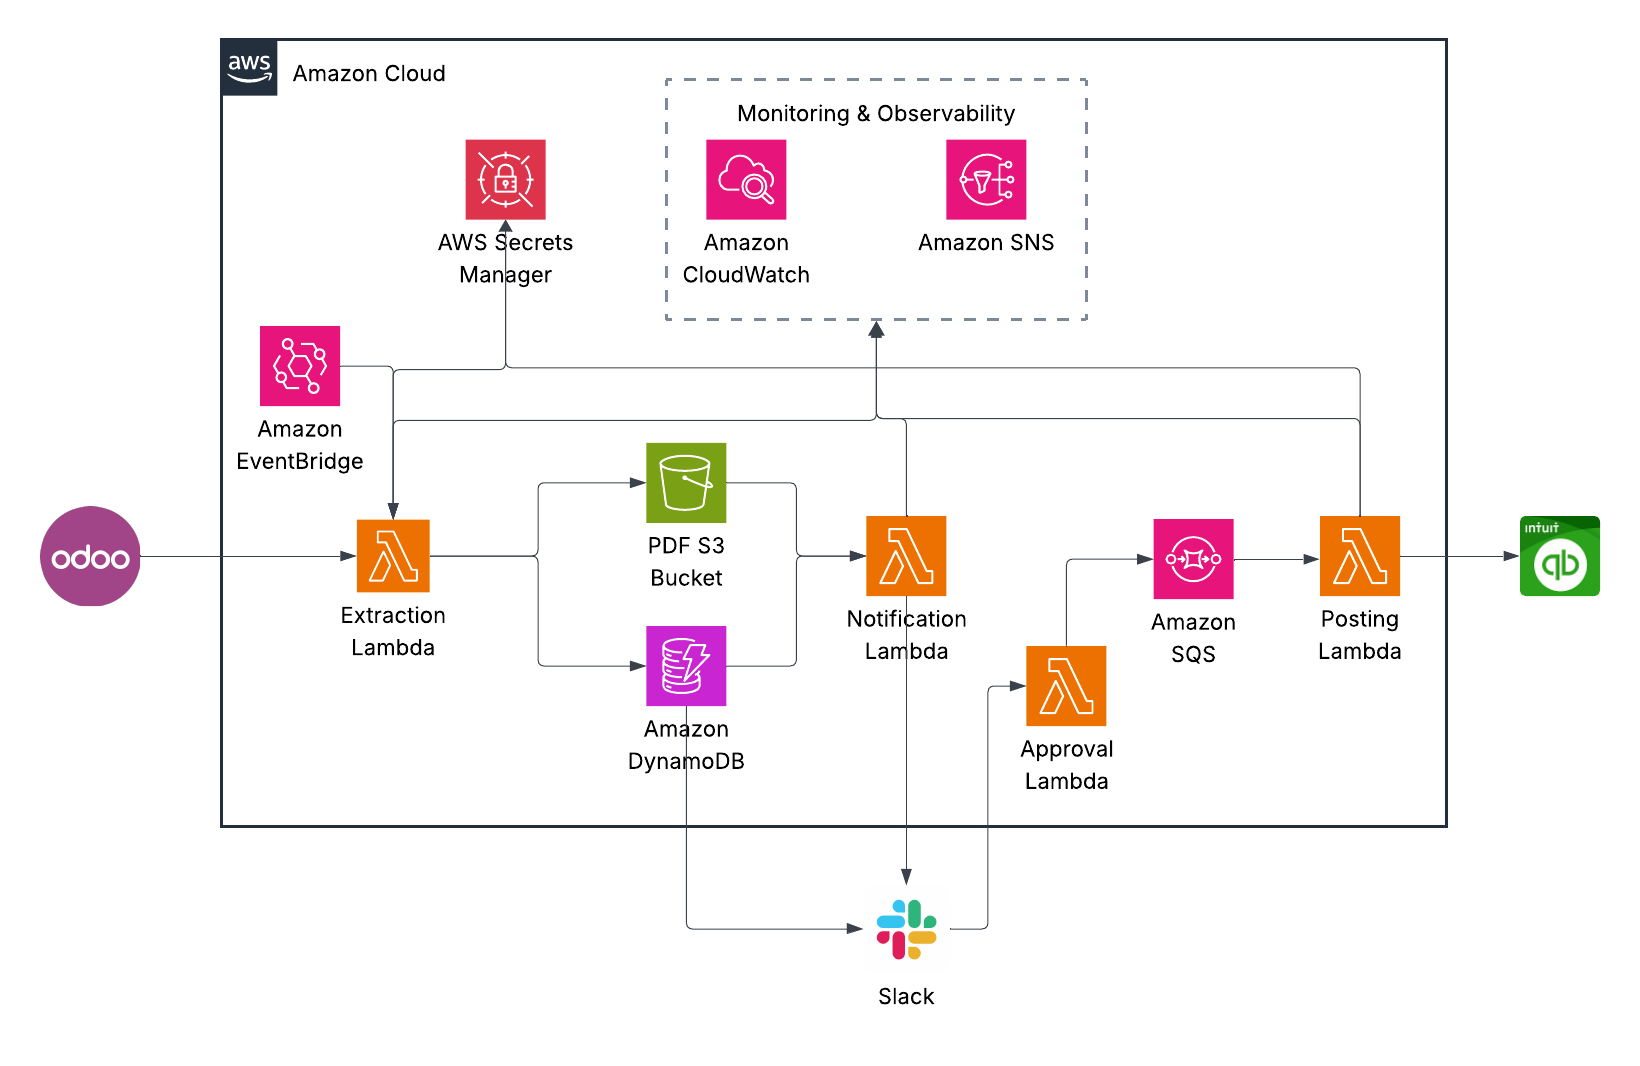
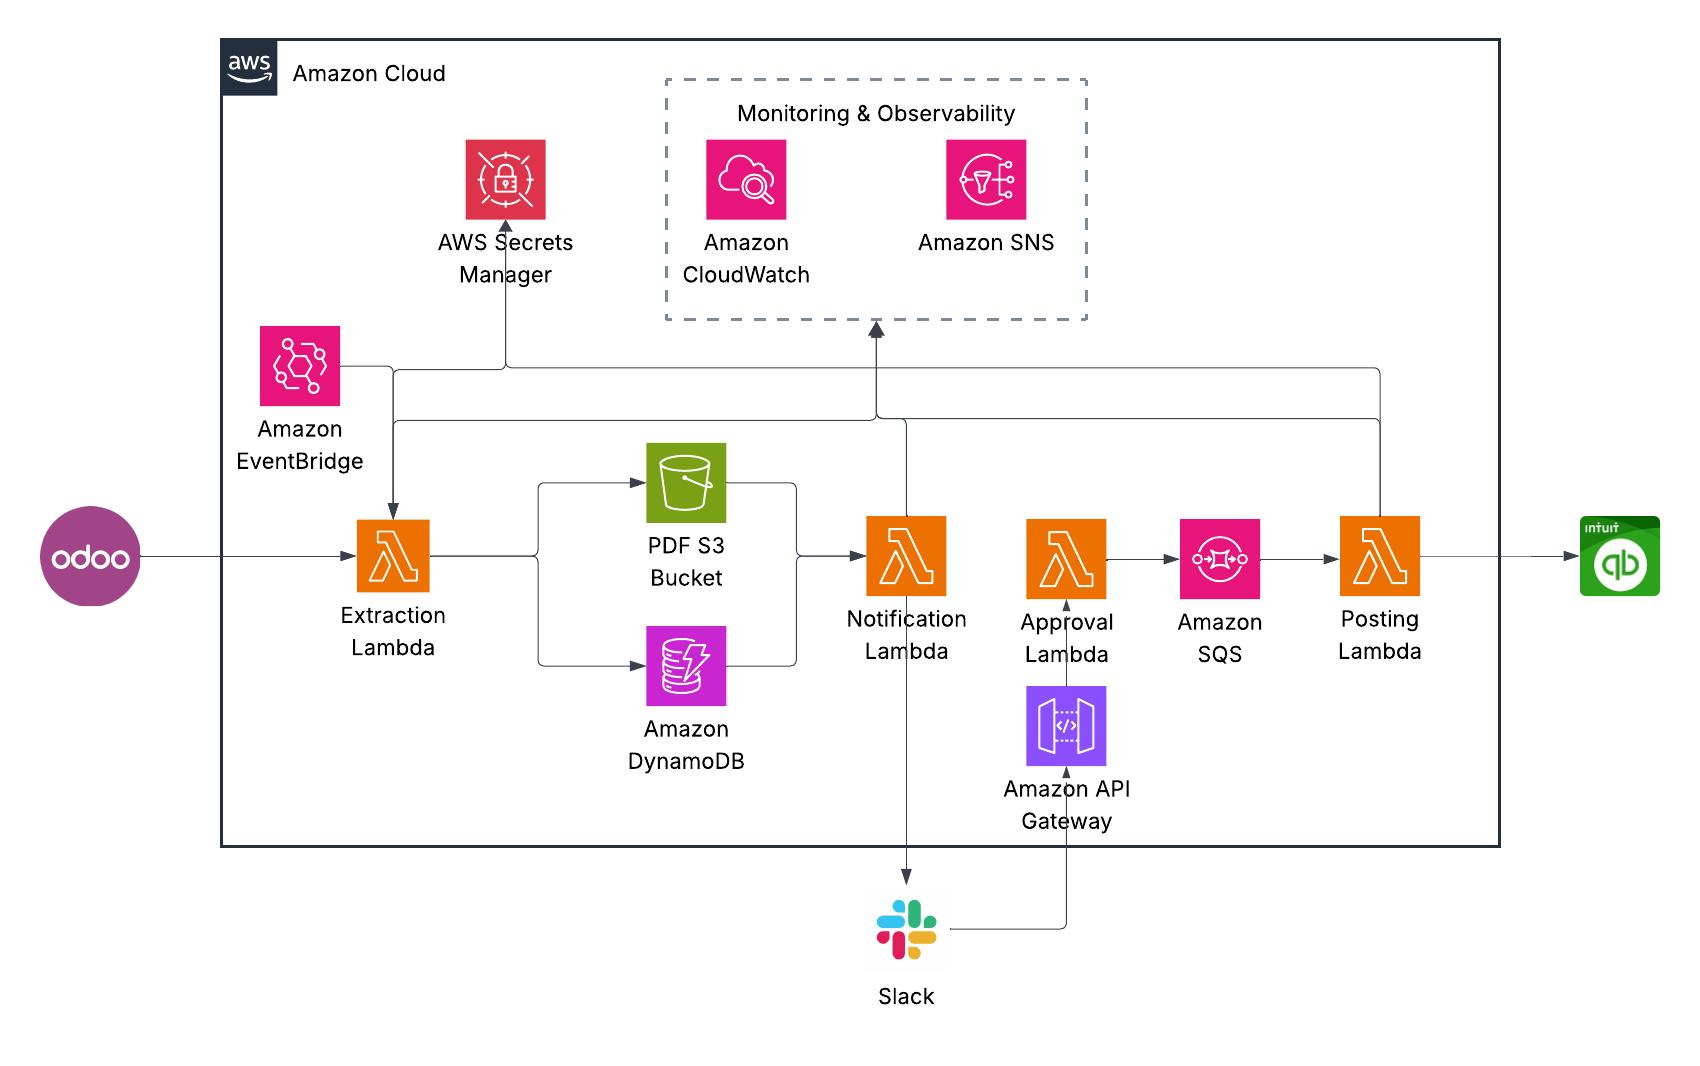
Refactor QuickBooks credentials management in Terraform and update approval handler to use API Gateway. Consolidated QuickBooks realm IDs and refresh tokens into a single variable for better organization. Updated README and example variables to reflect changes. Enhanced Lambda function to handle API

diff --git a/lambda/approval_handler.py b/lambda/approval_handler.py
@@ -1,7 +1,7 @@
 """
 Lambda 4: Approval Handler
 
-Lambda Function URL that handles Slack interactive button clicks.
+Lambda Function URL / API Gateway that handles Slack interactive button clicks.
 Updates DynamoDB status and enqueues approved invoices to SQS.
 """
 
@@ -11,6 +11,7 @@ import hmac
 import hashlib
 import logging
 import time
+import base64
 from datetime import datetime
 from urllib.parse import parse_qs
 
@@ -67,27 +68,33 @@ def get_slack_config() -> dict:
         raise
 
 
-def verify_slack_signature(event: dict, signing_secret: str) -> bool:
-    """Verify request is from Slack using signing secret."""
+def verify_slack_signature(headers: dict, body: str, signing_secret: str) -> bool:
+    """
+    Verify request is from Slack using signing secret.
+    
+    IMPORTANT: body must be the decoded string (not base64), as Slack signs the actual payload.
+    """
     
     # Skip verification if no signing secret (dev mode)
     if not signing_secret:
         logger.warning("Slack signing secret not configured - skipping verification")
         return True
     
-    headers = event.get("headers", {})
-    # Lambda Function URL headers are lowercase
+    # Lambda Function URL / API Gateway headers are lowercase
     timestamp = headers.get("x-slack-request-timestamp", "")
     signature = headers.get("x-slack-signature", "")
-    body = event.get("body", "")
     
     if not timestamp or not signature:
-        logger.error("Missing Slack signature headers")
+        logger.error(f"Missing Slack signature headers. Headers present: {list(headers.keys())}")
         return False
     
     # Check timestamp is recent (within 5 minutes)
-    if abs(time.time() - int(timestamp)) > 300:
-        logger.error("Slack timestamp too old")
+    try:
+        if abs(time.time() - int(timestamp)) > 300:
+            logger.error("Slack timestamp too old")
+            return False
+    except ValueError:
+        logger.error(f"Invalid timestamp: {timestamp}")
         return False
     
     # Compute expected signature
@@ -100,6 +107,8 @@ def verify_slack_signature(event: dict, signing_secret: str) -> bool:
     
     if not hmac.compare_digest(expected, signature):
         logger.error("Slack signature mismatch")
+        logger.debug(f"Expected: {expected[:20]}...")
+        logger.debug(f"Received: {signature[:20]}...")
         return False
     
     return True
@@ -418,29 +427,28 @@ def handle_modal_submit(payload: dict) -> dict:
 
 
 def lambda_handler(event, context):
-    """Handle Lambda Function URL requests from Slack."""
+    """Handle API Gateway / Lambda Function URL requests from Slack."""
     
     logger.info(f"Received request: {event.get('requestContext', {}).get('http', {}).get('method')}")
     
     # Get Slack config for verification
     config = get_slack_config()
     
-    # Verify request is from Slack
-    if not verify_slack_signature(event, config.get("signing_secret", "")):
+    # Get body - decode if base64 encoded
+    body = event.get("body", "")
+    if event.get("isBase64Encoded"):
+        body = base64.b64decode(body).decode("utf-8")
+    
+    # Verify request is from Slack (using decoded body)
+    headers = event.get("headers", {})
+    if not verify_slack_signature(headers, body, config.get("signing_secret", "")):
+        logger.error("Slack signature verification failed")
         return {
             "statusCode": 401,
             "body": "Invalid signature"
         }
     
-    # Parse body
-    body = event.get("body", "")
-    
-    # Handle URL-encoded form data from Slack
-    if event.get("isBase64Encoded"):
-        import base64
-        body = base64.b64decode(body).decode("utf-8")
-    
-    # Parse the payload
+    # Parse the payload (body is already decoded)
     try:
         parsed = parse_qs(body)
         payload_str = parsed.get("payload", ["{}"])[0]

diff --git a/lambda/poster.py b/lambda/poster.py
@@ -198,8 +198,8 @@ def get_qb_credentials() -> dict:
         return {
             "client_id": os.environ.get("QB_CLIENT_ID", ""),
             "client_secret": os.environ.get("QB_CLIENT_SECRET", ""),
-            "refresh_token": os.environ.get("QB_REFRESH_TOKEN", ""),
-            "realm_ids": json.loads(os.environ.get("QB_REALM_IDS", "{}")),
+            "use_sandbox": os.environ.get("QB_USE_SANDBOX", "false").lower() == "true",
+            "companies": json.loads(os.environ.get("QB_COMPANIES", "{}")),
         }
     
     try:
@@ -210,15 +210,16 @@ def get_qb_credentials() -> dict:
         raise
 
 
-def update_qb_credentials(new_refresh_token: str, credentials: dict):
-    """Update refresh token in Secrets Manager."""
+def update_qb_refresh_token(company: str, new_refresh_token: str, credentials: dict):
+    """Update refresh token for a specific company in Secrets Manager."""
     if not QB_SECRET_ARN:
         return
     
     try:
-        credentials["refresh_token"] = new_refresh_token
-        secrets_client.put_secret_value(SecretId=QB_SECRET_ARN, SecretString=json.dumps(credentials))
-        logger.info("Updated QB refresh token")
+        if company in credentials.get("companies", {}):
+            credentials["companies"][company]["refresh_token"] = new_refresh_token
+            secrets_client.put_secret_value(SecretId=QB_SECRET_ARN, SecretString=json.dumps(credentials))
+            logger.info(f"Updated QB refresh token for {company}")
     except ClientError as e:
         logger.error(f"Failed to update QB credentials: {e}")
 
@@ -372,7 +373,7 @@ def build_qb_bill(invoice: dict, qb: QuickBooksClient, account_cache: dict) -> d
     return {
         "VendorRef": {"value": vendor_id},
         "Line": lines,
-        "DocNumber": (invoice.get("bill_reference") or "")[:21],
+        "DocNumber": (invoice.get("bill_reference") or invoice.get("entry_id", "").replace("/", "-"))[:21],
         "TxnDate": invoice.get("bill_date"),
         "DueDate": invoice.get("due_date"),
         "PrivateNote": (invoice.get("po_number") or "")[:4000],
@@ -419,17 +420,23 @@ def process_invoice(entry_id: str) -> bool:
     try:
         # Get QB credentials
         credentials = get_qb_credentials()
-        realm_ids = credentials.get("realm_ids", {})
-        realm_id = realm_ids.get(company)
+        companies = credentials.get("companies", {})
+        company_creds = companies.get(company)
         
-        if not realm_id:
-            raise Exception(f"No QB realm for company: {company}")
+        if not company_creds:
+            raise Exception(f"No QB credentials for company: {company}")
+        
+        realm_id = company_creds.get("realm_id")
+        refresh_token = company_creds.get("refresh_token")
+        
+        if not realm_id or not refresh_token:
+            raise Exception(f"Missing realm_id or refresh_token for company: {company}")
         
         # Initialize QB client
         qb = QuickBooksClient(
             client_id=credentials["client_id"],
             client_secret=credentials["client_secret"],
-            refresh_token=credentials["refresh_token"],
+            refresh_token=refresh_token,
             realm_id=realm_id
         )
         
@@ -464,8 +471,8 @@ def process_invoice(entry_id: str) -> bool:
                     logger.warning(f"PDF attachment failed (non-fatal): {e}")
         
         # Update refresh token if changed
-        if qb.refresh_token != credentials["refresh_token"]:
-            update_qb_credentials(qb.refresh_token, credentials)
+        if qb.refresh_token != refresh_token:
+            update_qb_refresh_token(company, qb.refresh_token, credentials)
         
         # Update status
         update_invoice_status(entry_id, STATUS_POSTED, qb_bill_id=qb_bill_id)

diff --git a/README.md b/README.md
@@ -17,8 +17,8 @@ Automated, approval-based pipeline that extracts vendor bills from Odoo, routes 
   - Triggered by DynamoDB Streams on new `READY_FOR_APPROVAL` records
   - Builds Slack Block Kit message with invoice details + Approve/Reject buttons
   - Posts to a configured Slack channel and records the Slack message timestamp
-- Approval Handler (Lambda Function URL):
-  - Target for Slack interactive button clicks (Approve/Reject/View PDF)
+- Approval Handler (API Gateway HTTP API → Lambda):
+  - Target for Slack interactive button clicks (Approve/Reject/View PDF) via API Gateway URL
   - Verifies Slack signing secret, updates DynamoDB status
   - On Approve: enqueues invoice to SQS for posting
 - QuickBooks Poster (Lambda):
@@ -43,11 +43,12 @@ This configuration provisions:
   - `odoo-qb-integration/odoo-credentials-<env>`
   - `odoo-qb-integration/quickbooks-credentials-<env>`
   - `odoo-qb-integration/slack-config-<env>`
+- API Gateway HTTP API for the Slack approval callback (with access logs)
 - IAM roles/policies for Lambdas (Logs, S3, DynamoDB, Secrets, SNS, SQS)
 - Lambda functions (Python 3.12):
   - `odoo-extractor-<env>` (300s, 512 MB) — EventBridge scheduled
   - `odoo-notifier-<env>` (30s, 256 MB) — DynamoDB Stream triggered
-  - `odoo-approval-handler-<env>` (30s, 256 MB) — Function URL (Slack)
+  - `odoo-approval-handler-<env>` (30s, 256 MB) — API Gateway (Slack)
   - `odoo-poster-<env>` (300s, 256 MB) — SQS triggered
 - SQS queue for approved invoices + DLQ for poster
 - EventBridge rule and target for scheduled extraction
@@ -70,9 +71,8 @@ This configuration provisions:
   - `odoo_database`, `odoo_username`, `odoo_api_key` (sensitive)
 - QuickBooks:
   - `qb_client_id`, `qb_client_secret` (sensitive)
-  - `qb_refresh_token` (sensitive)
-  - `qb_realm_ids` (map of company → realm ID)
   - `qb_use_sandbox` (bool, default `false`)
+  - `qb_credentials` (map of company → `{ realm_id, refresh_token }`)
 
 Secrets payloads are generated from these variables and stored in Secrets Manager by Terraform.
 
@@ -84,7 +84,7 @@ Secrets payloads are generated from these variables and stored in Secrets Manage
   - Env: `ENVIRONMENT`, `ODOO_API_URL`, `ODOO_SECRET_ARN`, `DYNAMODB_TABLE`, `S3_BUCKET`, `SNS_ALERT_TOPIC`
 - Notifier (`notifier.lambda_handler`)
   - Env: `ENVIRONMENT`, `SLACK_SECRET_ARN`, `SLACK_CHANNEL_ID`, `DYNAMODB_TABLE`, `S3_BUCKET`, `APPROVAL_URL`
-- Approval Handler (`approval_handler.lambda_handler`)
+- Approval Handler (`approval_handler.lambda_handler`) via API Gateway
   - Env: `ENVIRONMENT`, `DYNAMODB_TABLE`, `SQS_QUEUE_URL`, `SLACK_SECRET_ARN`
 - Poster (`poster.lambda_handler`)
   - Env: `ENVIRONMENT`, `QB_SECRET_ARN`, `DYNAMODB_TABLE`, `S3_BUCKET`, `SNS_ALERT_TOPIC`
@@ -131,14 +131,27 @@ odoo_api_key  = "********"
 # QuickBooks
 qb_client_id     = "********"
 qb_client_secret = "********"
-qb_refresh_token = "********"
-qb_realm_ids = {
-  "1MD"               = "1234567890"
-  "LiveConscious"     = "2345678901"
-  "EssentialElements" = "3456789012"
-  "TruAlchemy"        = "4567890123"
-}
 qb_use_sandbox = false
+
+# Per-brand credentials (realm_id and refresh_token per company)
+qb_credentials = {
+  "1MD" = {
+    realm_id      = "1234567890"
+    refresh_token = "********"
+  }
+  "LiveConscious" = {
+    realm_id      = "2345678901"
+    refresh_token = "********"
+  }
+  "EssentialElements" = {
+    realm_id      = "3456789012"
+    refresh_token = "********"
+  }
+  "TruAlchemy" = {
+    realm_id      = "4567890123"
+    refresh_token = "********"
+  }
+}
 ```
 
 Terraform will create/update the Secrets Manager values from these variables.
@@ -164,7 +177,7 @@ terraform apply tfplan
 ```
 
 Terraform outputs include:
-- `approval_handler_url` (configure this as the Slack interactivity endpoint)
+- `approval_handler_url` (API Gateway URL for Slack Interactivity endpoint)
 - S3 bucket name
 - DynamoDB table name
 - SQS queue URL for approved invoices
@@ -181,6 +194,7 @@ Terraform outputs include:
   - `/aws/lambda/odoo-notifier-<env>`
   - `/aws/lambda/odoo-approval-handler-<env>`
   - `/aws/lambda/odoo-poster-<env>`
+  - `/aws/apigateway/odoo-slack-approval-<env>`
 - Data flow:
   - Extractor writes PDFs to `s3://<bucket>/pending/<company>/<entry_id>.pdf`
   - Extractor writes `READY_FOR_APPROVAL` items to DynamoDB
